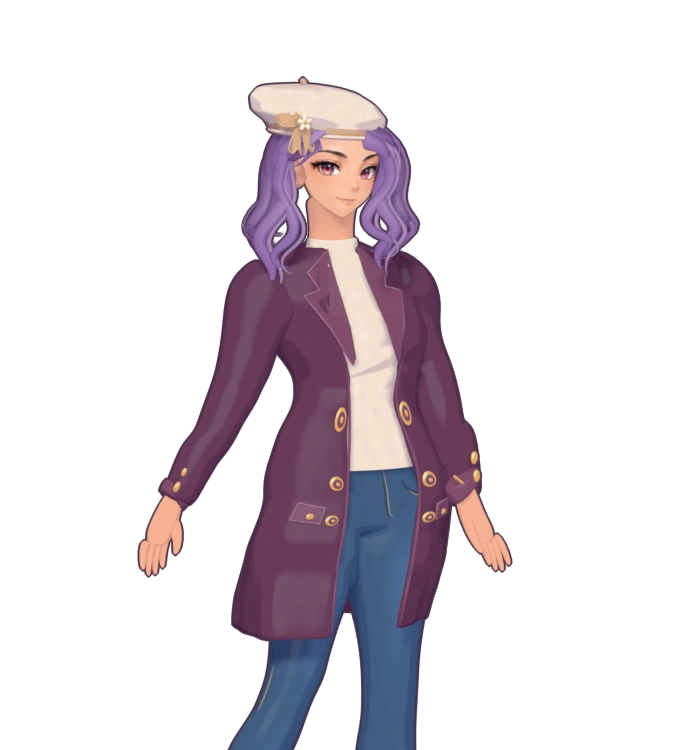
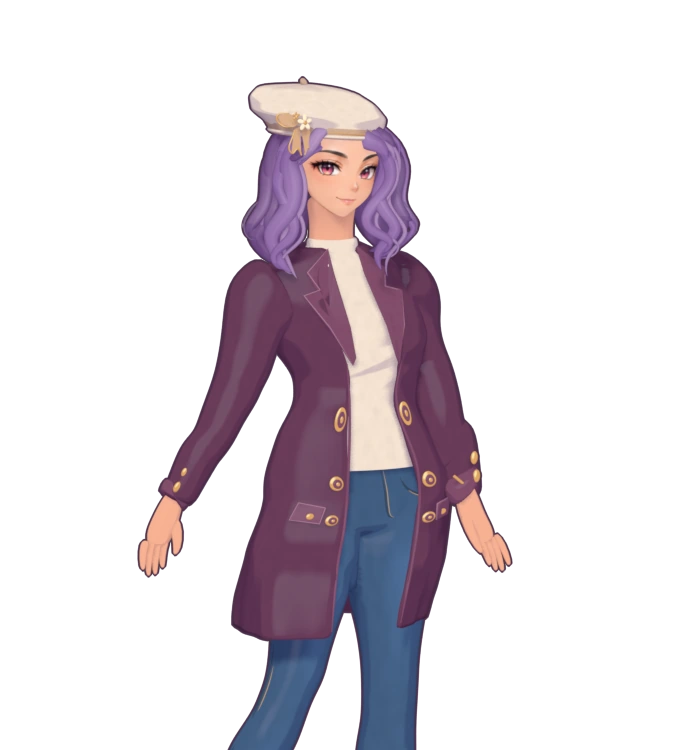
Fit lilac waves against the temple, ear, and jaw

Changed region(s): [[0.3706, 0.184, 0.4632, 0.368], [0.525, 0.2453, 0.5868, 0.3373]]

diff --git a/docs/avatar-3d.html b/docs/avatar-3d.html
@@ -7,7 +7,7 @@
 <meta name="description" content="같은 코디의 2D 원화와 3D 모델 렌더를 비교해 보세요.">
 <title>캐릭터 제작 시안 · 알찬끼</title>
 <link rel="stylesheet" href="./avatar-3d.css">
-<script type="module" src="./avatar-3d.mjs?v=8"></script>
+<script type="module" src="./avatar-3d.mjs?v=9"></script>
 </head>
 <body>
 <main>

diff --git a/scripts/avatar-studio/render.py b/scripts/avatar-studio/render.py
@@ -291,7 +291,7 @@ def face(skin, gold):
         uv.data[loop.index].uv = uvs[loop.vertex_index]
     color_attributes(head, "Paint coverage", coverage)
 
-    ear = sphere("Visible ear", portrait_point(-.318,.113,5.042), (.104,.062,.125), skin)
+    ear = sphere("Ear beneath the side locks", portrait_point(-.318,.113,5.042), (.104,.062,.125), skin)
     ear.rotation_euler.z = -PORTRAIT_YAW
     inset = material("Ear warm shade", "bb7565", .72)
     ear_shape = sphere("Ear concha", portrait_point(-.347,.164,5.033), (.044,.017,.067), inset)
@@ -403,6 +403,26 @@ def hair(materials, hatted=False):
         (.50,.22,4.75,.051,.038),(.59,.27,4.65,.051,.034),(.63,.27,4.52,.038,.027),
         (.54,.27,4.45,.026,.016),(.50,.31,4.50,.002,.002)],
     ]
+    # The visible-side fringe crosses the temple and ear before curling over
+    # the shoulder. Its front surface stays ahead of the ear around 5.04.
+    temple_profile = [
+        (.207,.324,5.531,.061,.019),(.325,.358,5.341,.089,.027),
+        (.390,.322,5.177,.104,.033),(.343,.293,5.019,.132,.037),
+        (.325,.278,4.843,.109,.032),(.366,.308,4.692,.106,.029),
+        (.515,.343,4.550,.092,.026),(.564,.385,4.417,.071,.026),
+        (.484,.414,4.293,.053,.020),(.356,.389,4.235,.002,.003),
+    ]
+    # A darker layer behind the neck connects the curls to the crown, with
+    # enough space between its tapered ends for the shoulder to show.
+    nape = [(.365,-.079,5.202,.101,.042),(.374,-.083,4.992,.131,.040),
+            (.338,-.104,4.796,.146,.044),(.310,-.108,4.638,.136,.035),
+            (.400,-.080,4.471,.130,.034),(.475,-.041,4.353,.092,.024),
+            (.441,.003,4.228,.044,.016),(.366,.055,4.217,.002,.003)]
+    for side in (-1,1):
+        drape = [(side*x,d,z+(.05 if side>0 else 0)*i/7,w,t)
+                 for i,(x,d,z,w,t) in enumerate(nape)]
+        hair_lock("Hair behind the jaw and collar",drape,lock,(deep,violet,blush),side*.61)
+
     # The near shoulder carries a wider curl. On the far side the hair
     # turns back towards the collar and ends above the near-side tips.
     tips = {
@@ -413,11 +433,16 @@ def hair(materials, hatted=False):
         for i in order:
             rows = []
             lift,fan = tips[side][i]
-            for x,depth,z,w,thickness in profiles[i]:
+            at_temple = side == -1 and i == 1
+            profile = temple_profile if at_temple else profiles[i]
+            for j,(x,depth,z,w,thickness) in enumerate(profile):
                 fall = 1-smooth_range(z,4.13,4.81)
                 swing = sin(5.5*fall+i*.93)*.17*fall
                 eye_room = .113*exp(-((z-5.152)/.253)**2)-.014 if side>0 else 0
                 bias = .55 if i==2 else 1
+                if hatted and at_temple and j<2:
+                    depth -= .094 if j==0 else .024
+                    z -= .101 if j==0 else .022
                 rows.append((side*(x+fall*fan+swing*bias)+eye_room,
                              depth+(.035*cos(i*1.24+fall*4.1)*fall),
                              z+fall*lift,w,
@@ -455,9 +480,10 @@ def hair(materials, hatted=False):
                     w*(.84 if j<2 else 1),depth) for j,(x,d,z,w,depth) in enumerate(raw)]
         sculpt("Fine side-swept fringe",raw,i in (0,2),.31+i*1.35)
 
-    loose_fringe = [( .136,.245,5.647,.028,.018),(.077,.363,5.591,.041,.023),
-        (-.083,.443,5.484,.052,.026),(-.217,.426,5.354,.043,.020),
-        (-.262,.401,5.241,.026,.014),(-.225,.395,5.210,.002,.002)]
+    loose_fringe = [(.123,.247,5.657,.027,.016),(.048,.366,5.587,.044,.022),
+        (-.066,.440,5.492,.058,.025),(-.153,.446,5.394,.064,.025),
+        (-.202,.426,5.289,.055,.021),(-.277,.378,5.229,.042,.017),
+        (-.332,.321,5.190,.017,.008),(-.355,.295,5.171,.002,.002)]
     if hatted:
         loose_fringe = [(x,d-(.100 if j<2 else 0),z-(.13 if j<2 else 0),w,thickness)
                        for j,(x,d,z,w,thickness) in enumerate(loose_fringe)]

diff --git a/scripts/avatar-studio/STYLE-GUIDE.md b/scripts/avatar-studio/STYLE-GUIDE.md
@@ -6,6 +6,7 @@
 
 - 전신은 모자를 벗긴 상태에서 정수리와 발바닥 높이를 맞춰 비교한다. 같은 화면에서 허리선과 가랑이 높이, 무릎에서 발목까지의 흐름을 확인한다. 몸판과 데님의 세로 비율은 `SILHOUETTE_HEIGHTS`에서 함께 맞추고, 손은 소매와 함께 움직인다. 머리 크기를 조정할 때는 앞머리와 모자도 같이 움직여 목과 챙의 겹침을 확인한다.
 - 머리카락은 가르마에서 출발해 관자놀이와 어깨를 따라 크게 나눈다. 좌우 가닥의 끝 높이와 방향을 다르게 두고, 가닥끼리 겹치는 곳과 사이로 배경이 보이는 곳을 모두 만든다. 큰 곡선에는 가는 보조 가닥과 색선을 얹는다. 눈매와 볼을 드러내고 베레모 아래에서는 뿌리와 앞머리를 챙 안쪽으로 눌러 맞춘다.
+- 라일락 웨이브는 가까운 쪽 관자놀이에서 시작하는 옆머리가 귀를 덮고, 턱 뒤의 어두운 뒷머리가 어깨로 이어진다. 전신과 머리 확대에서 귀 쪽 피부와 턱 옆의 투명한 틈이 드러나는지 확인한다. 현재 카메라의 두 구간을 브라우저 검사에 포함한다.
 - 전체 외곽선은 짙은 자주색으로 두고 내부 주름과 봉제선은 주변 원단색에 가깝게 잡는다. 얼굴은 기존 눈·입 표현이 읽히도록 그늘 경계를 완만하게 한다. 머리의 하이라이트는 가닥이 굽는 구간에 짧게 모으며, 넓은 천에는 큰 그림자 면을 먼저 배치한다.
 - 주름에는 천을 당기거나 접는 이유가 있어야 한다. 손목과 무릎에서는 관절의 굽힘에 따라 주름이 모이고, 허리와 코트 자락에서는 천이 걸리는 지점부터 주름이 펼쳐진다. 확대에서 작은 무늬가 주름과 같은 방향으로 이어지는지 본다.
 
